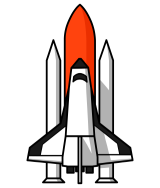
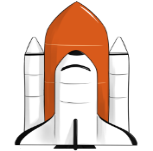
messsed with animation more, replaced shuttle image with one claiming to be public domain

diff --git a/css/index.css b/css/index.css
@@ -155,31 +155,6 @@ p {
   font-size: 1.6rem;
   line-height: 1.4;
 }
-.shuttleDiv {
-  position: absolute;
-  top: 0.8rem;
-  animation-name: shuttleFly;
-  animation-duration: 6s;
-  animation-fill-mode: forwards;
-  overflow: hidden;
-}
-.shuttleDiv .animShuttle {
-  transform: rotateZ(90deg);
-  width: 5rem;
-}
-@keyframes shuttleFly {
-  0% {
-    left: 0;
-  }
-  50% {
-    left: 80vw;
-    transform: rotateZ(0deg);
-  }
-  100% {
-    transform: rotateZ(-90deg);
-    left: 80vw;
-  }
-}
 .container {
   max-width: 80rem;
   width: 100%;
@@ -189,6 +164,7 @@ p {
   background-color: #F6F6F6;
   border-bottom: 0.1rem solid #F1F1F1;
   width: 100%;
+  overflow: hidden;
 }
 .greyBGandBorder .topH1 {
   font-size: 4rem;
@@ -196,6 +172,46 @@ p {
   text-align: center;
   padding-top: 1.3rem;
   padding-bottom: 2rem;
+}
+.greyBGandBorder .shuttleDiv {
+  position: absolute;
+  top: 0.8rem;
+  animation-name: shuttleFly;
+  animation-duration: 6s;
+  animation-fill-mode: forwards;
+  overflow: hidden;
+}
+.greyBGandBorder .shuttleDiv .animShuttle {
+  transform: rotateZ(90deg);
+  width: 5rem;
+}
+@keyframes shuttleFly {
+  0% {
+    left: 0;
+  }
+  50% {
+    left: 70vw;
+    transform: rotateZ(0deg);
+  }
+  100% {
+    transform: rotateZ(-90deg);
+    left: 70vw;
+  }
+}
+@media (max-width: 500px) {
+  @keyframes shuttleFly {
+    0% {
+      left: 0;
+    }
+    50% {
+      left: 80vw;
+      transform: rotateZ(0deg);
+    }
+    100% {
+      transform: rotateZ(-90deg);
+      left: 80vw;
+    }
+  }
 }
 .greyBGandBorder nav {
   padding: 0 31.4rem 1.2rem 31.4rem;

diff --git a/less/global.less b/less/global.less
@@ -30,33 +30,26 @@ p {
   line-height: 1.4;
 }
 
-.shuttleDiv
-  {
-    position: absolute;
-    top: .8rem;
-    .animShuttle
-    {
-      // overflow: hidden;
-      transform: rotateZ(90deg);
-      width: 5rem;   
-    }
-    animation-name: shuttleFly;
-    animation-duration: 6s;
-    animation-fill-mode: forwards;
-    overflow: hidden;
-  }
-  @keyframes shuttleFly {
-    // @media @phone
-    // {
-    //   0%  { left:0; }
-    //   50% { left: @shuttleStopMob; transform: rotateZ(0deg); }
-    //   100% { transform: rotateZ(-90deg); left: @shuttleStopMob; }
-    // }
-      0%  { left:0; }
-      50% { left: @shuttleStop; transform: rotateZ(0deg); }
-      100% { transform: rotateZ(-90deg); left: @shuttleStop; }
-      
-  }
+// .shuttleDiv
+// {
+//   position: absolute;
+//   top: .8rem;
+//   .animShuttle
+//   {
+//     transform: rotateZ(90deg);
+//     width: 5rem;   
+//   }
+//   animation-name: shuttleFly;
+//   animation-duration: 6s;
+//   animation-fill-mode: forwards;
+//   overflow: hidden;
+// }
+// @keyframes shuttleFly {
+//   0%  { left:0; }
+//   50% { left: @shuttleStop; transform: rotateZ(0deg); }
+//   100% { transform: rotateZ(-90deg); left: @shuttleStop; }
+    
+// }
 
 
 .container {

diff --git a/less/navigation.less b/less/navigation.less
@@ -5,7 +5,8 @@
     background-color: @nav-bg;
     border-bottom: .1rem solid @nav-border;
     width: 100%;
-    // overflow: hidden;
+    overflow: hidden;
+    
     .topH1
     {
         font-size: 4rem;
@@ -15,6 +16,41 @@
         padding-top: 1.3rem;
         padding-bottom: 2rem;
     }
+
+    @shuttleStop: 100vw;
+
+    .shuttleDiv
+    {
+    position: absolute;
+    top: .8rem;
+    .animShuttle
+    {
+        transform: rotateZ(90deg);
+        width: 5rem;   
+    }
+    animation-name: shuttleFly;
+    animation-duration: 6s;
+    animation-fill-mode: forwards;
+    overflow: hidden;
+    }
+
+    @keyframes shuttleFly 
+    {
+    0%  { left:0; }
+    50% { left: @shuttleStop*.7; transform: rotateZ(0deg); }
+    100% { transform: rotateZ(-90deg); left: @shuttleStop*.7; }
+    }
+
+    @media @phone
+    {
+        @keyframes shuttleFly {
+        0%  { left:0; }
+        50% { left: @shuttleStop*.8; transform: rotateZ(0deg); }
+        100% { transform: rotateZ(-90deg); left: @shuttleStop*.8; }
+    }
+    }
+
+
     
     nav
     {

diff --git a/index.html b/index.html
@@ -18,7 +18,7 @@
   
   <div class="greyBGandBorder">
 
-    <h1 class="topH1">SpaceWalkers</h1>
+    <h1 class="topH1" id="mainH1">SpaceWalkers</h1>
     <!-- navigation code here -->
   
     <nav>

diff --git a/less/variables.less b/less/variables.less
@@ -30,7 +30,3 @@
 
 @phone: ~"(max-width: 500px)";
 
-//anim var
-@shuttleStop: 80vw;
-@shuttleStopMob: 40rem;
-

diff --git a/less/home-page.less b/less/home-page.less
@@ -2,7 +2,6 @@
 
 .home {
 
-
   .intro {
 
     h2 {
